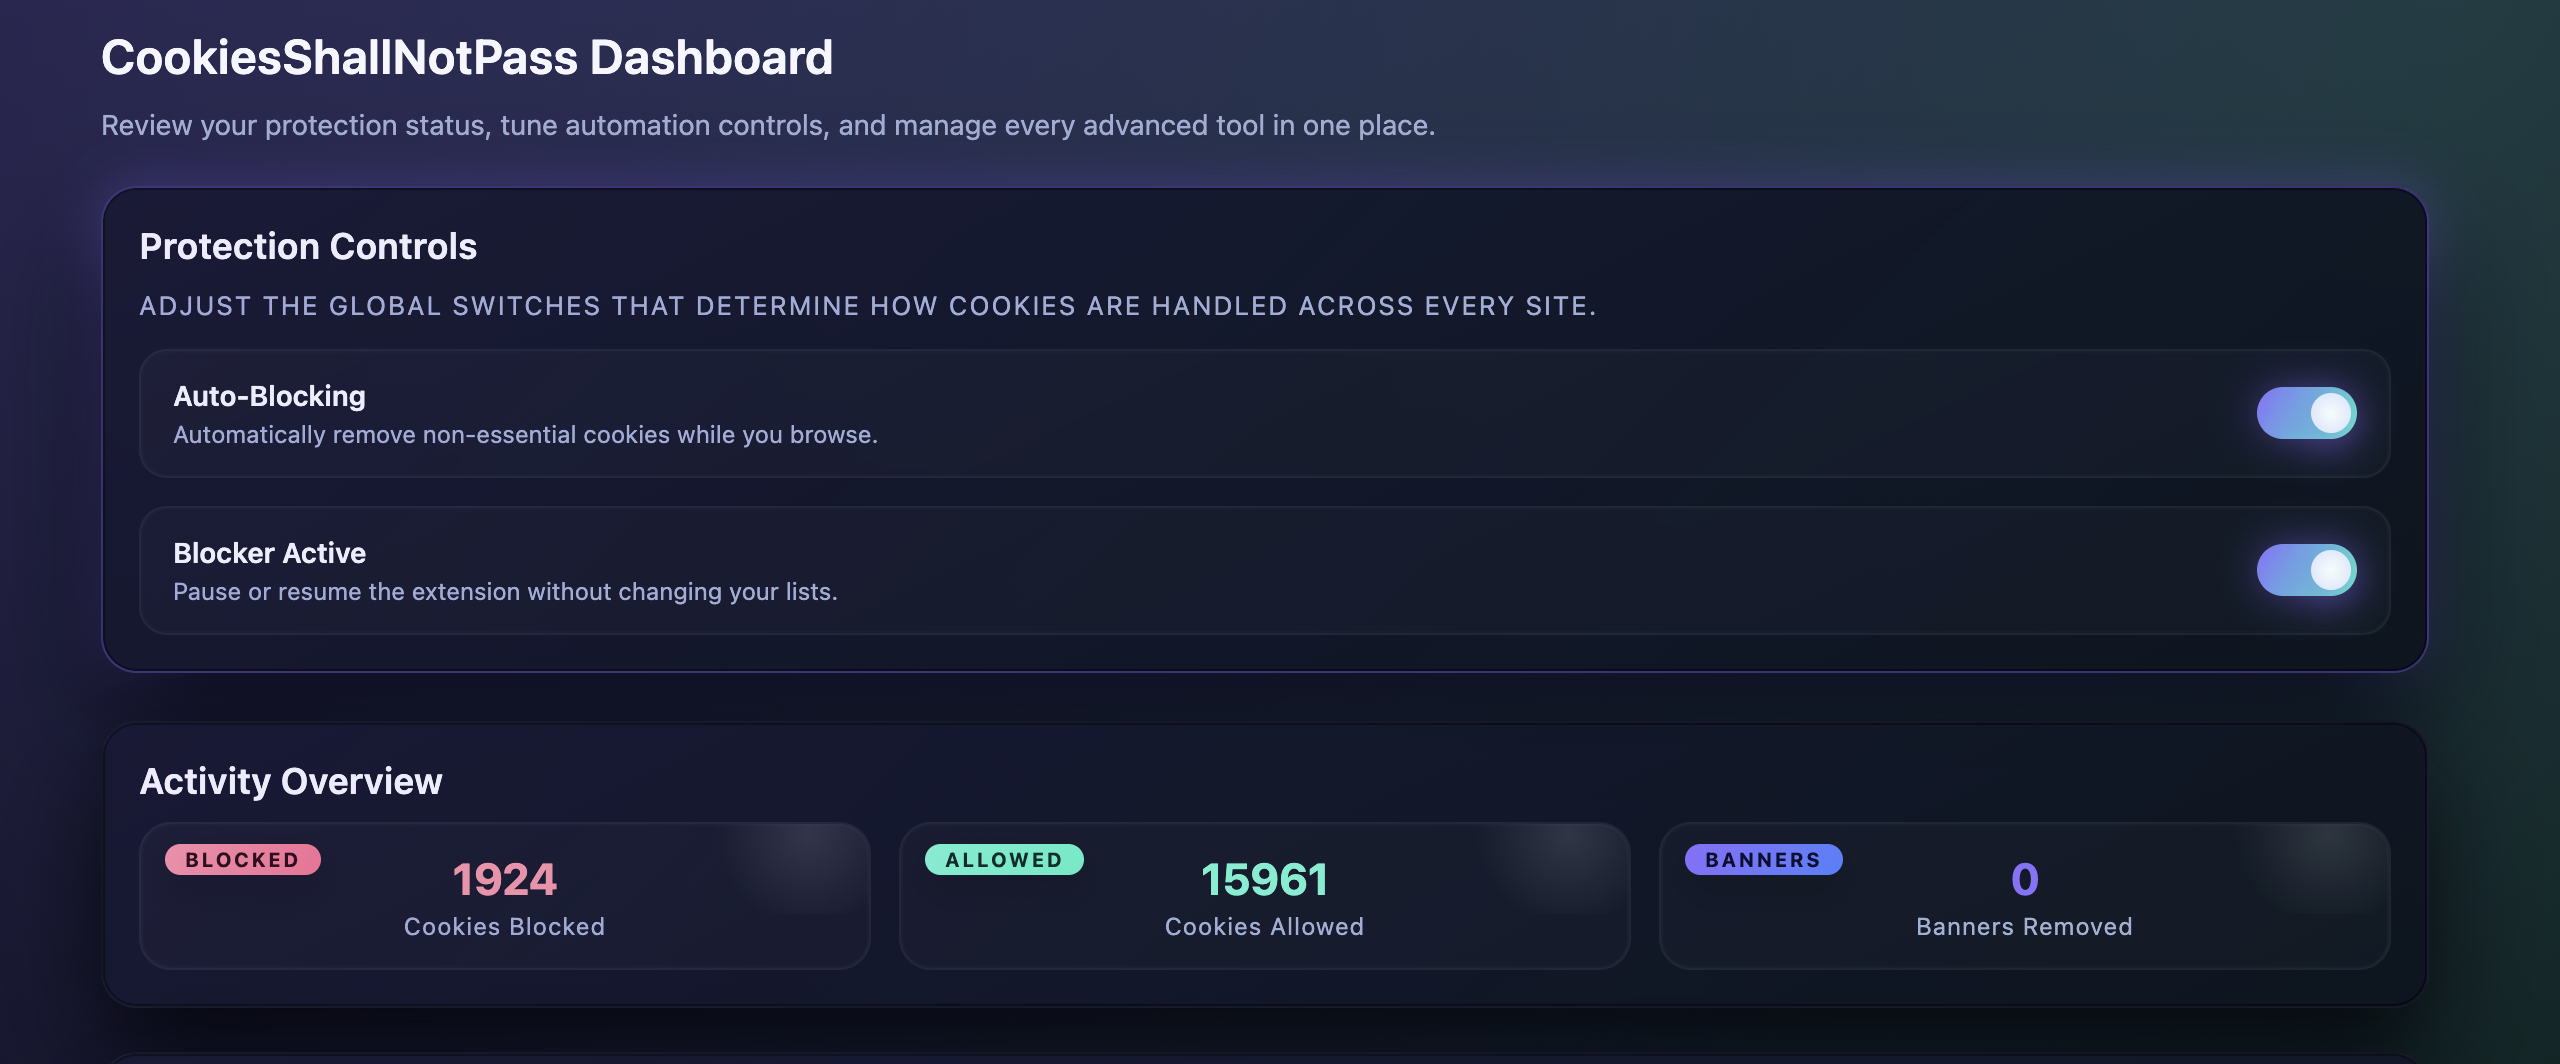
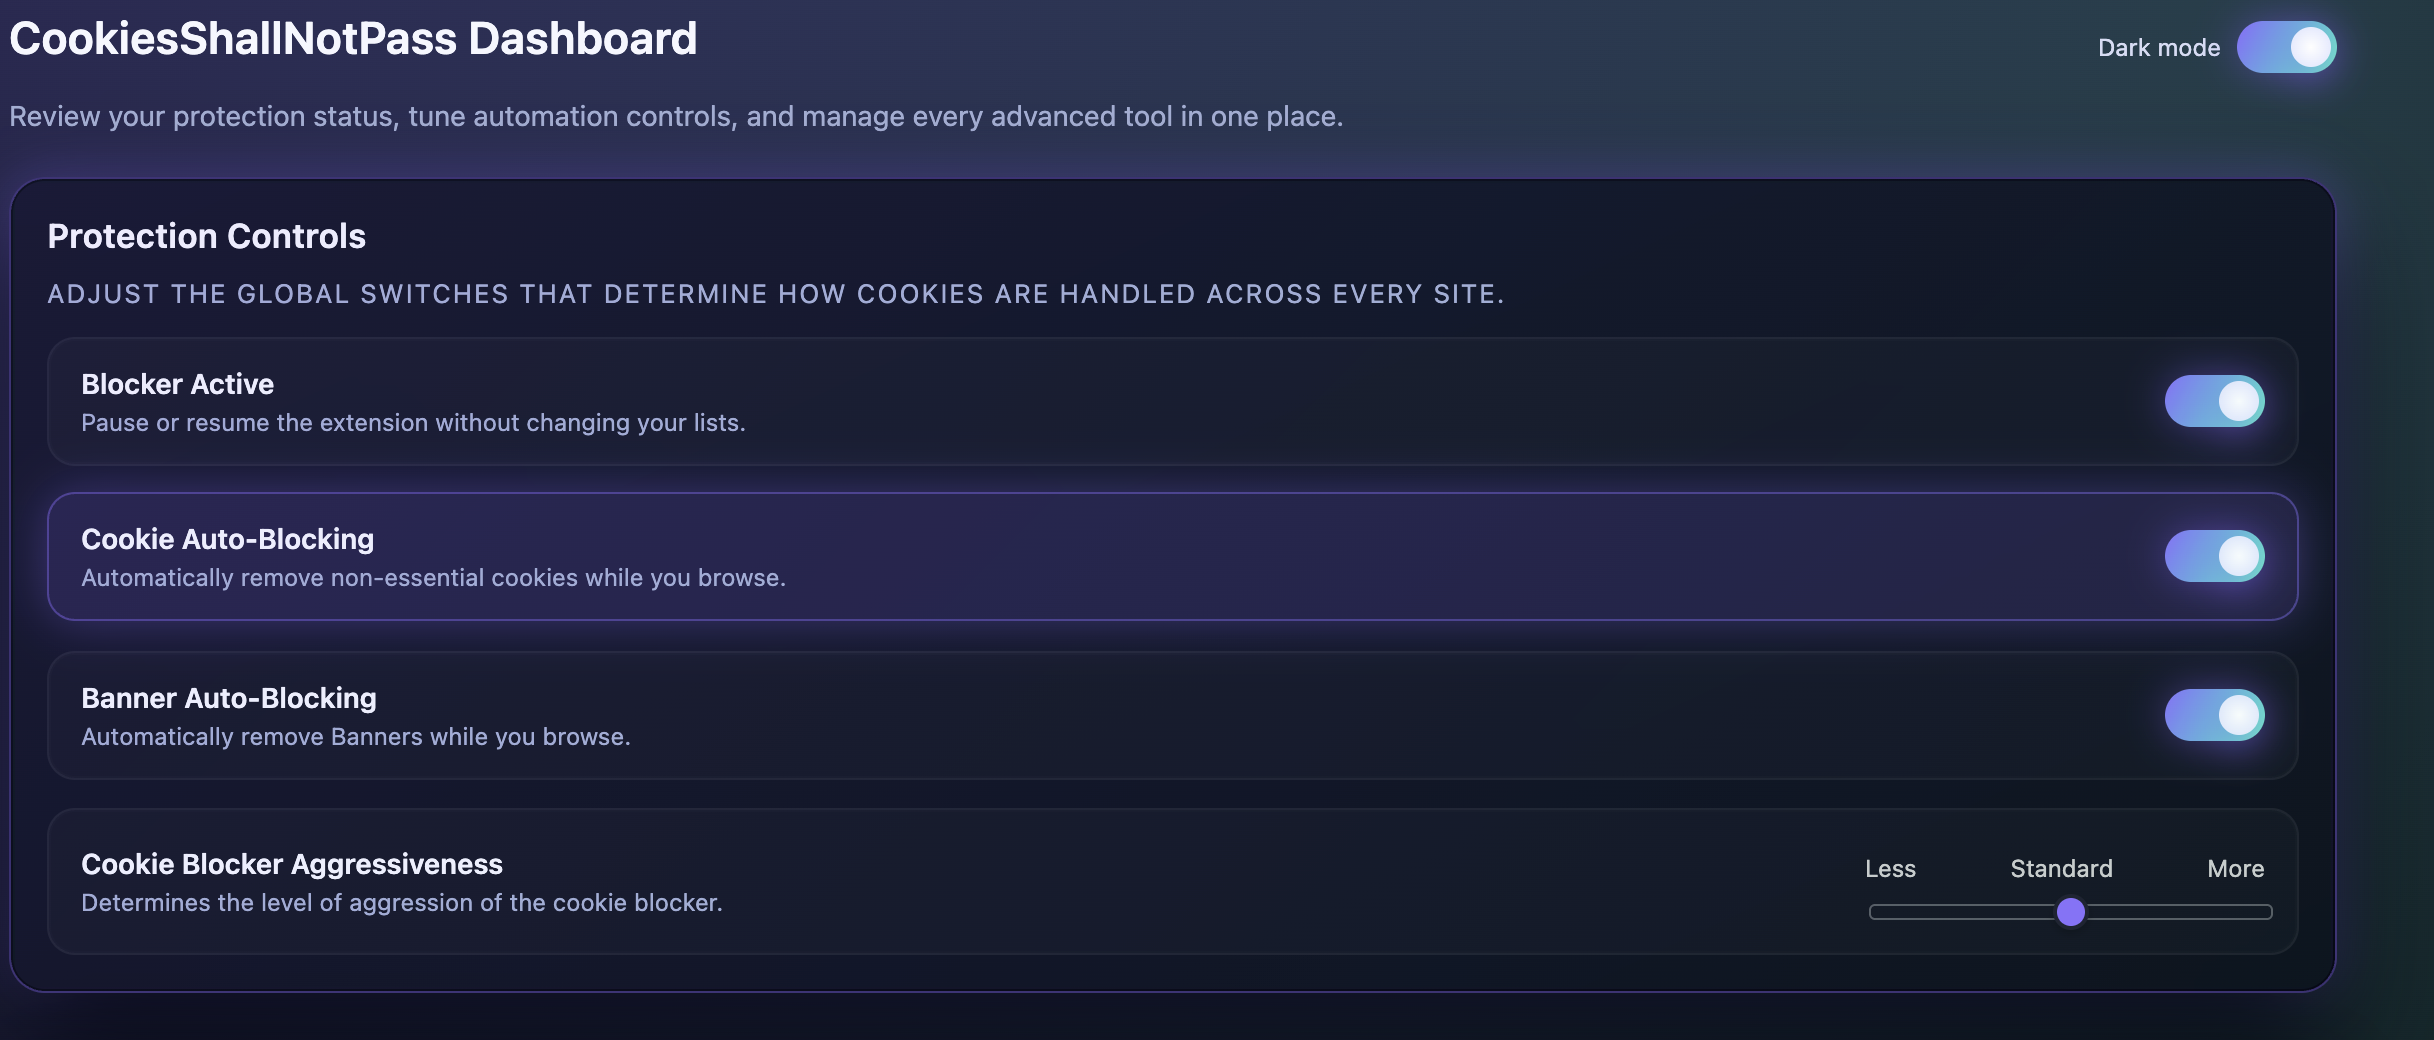
pic updated

diff --git a/docs/USER_MANUAL.md b/docs/USER_MANUAL.md
@@ -94,7 +94,7 @@ The popup gives you direct access to essential controls while browsing.
 
 **Edit Preferences:**  
 
-<img src="../images/preference.png" alt="Choosing Preference" width="500"/>
+<img src="../images/Preference.png" alt="Choosing Preference" width="500"/>
 
 - Manage your extension settings directly from the dashboard.  
   - Auto-Blocking: Turn automatic cookie blocking on or off globally.  
